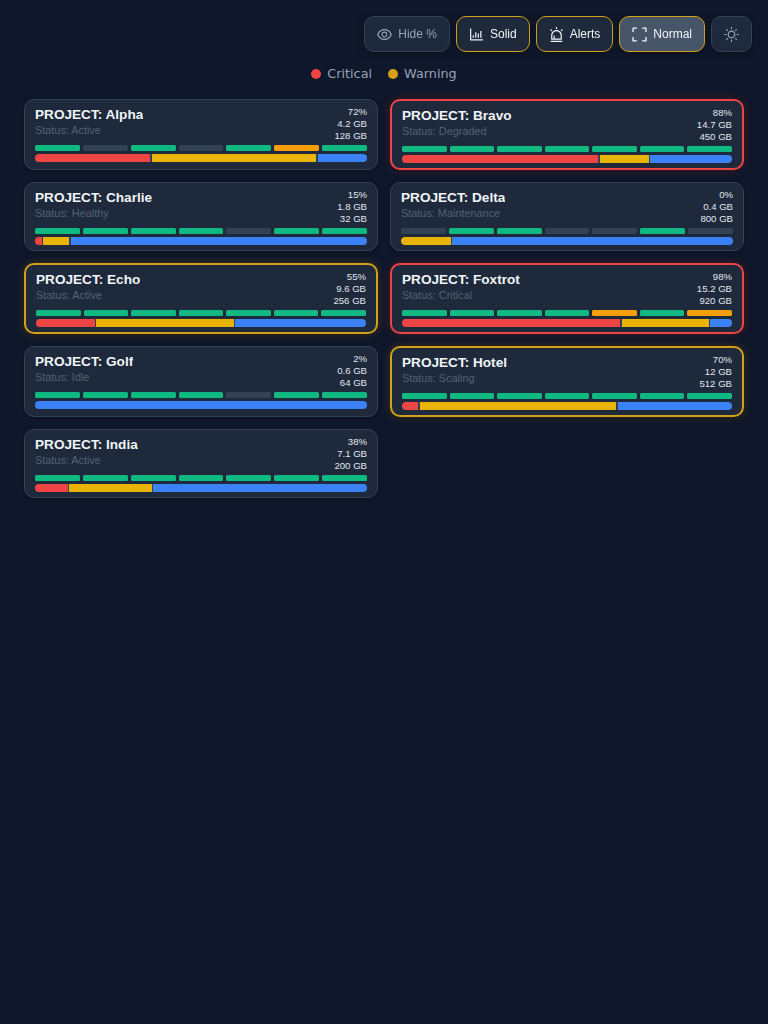
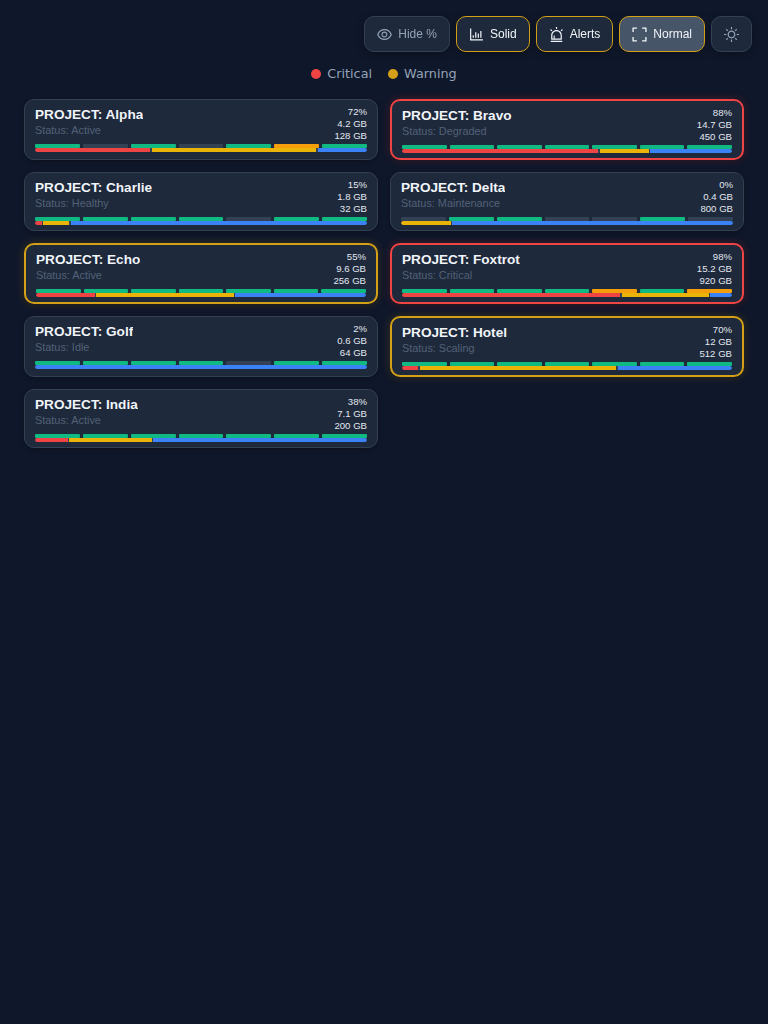
Compact cards: thinner gauges/bars and remove gap between them
- Gauge bars 6px → 4px, segmented bar 8px → 4px
- Card gap 3px → 2px, negative margin to close the gap between
  gauge row and segmented bar
- Update screenshots

https://claude.ai/code/session_018uFt2K4uPZLk9hC1RMM5Av

Changed region(s): [[0.0312, 0.125, 0.9688, 0.5]]

diff --git a/src/components/StatusCard.css b/src/components/StatusCard.css
@@ -310,7 +310,7 @@
 /* ── Compact mode ── */
 .status-card-compact {
   padding: 6px 10px 5px;
-  gap: 3px;
+  gap: 2px;
   border-radius: 10px;
 }
 
@@ -345,8 +345,8 @@
 .gauge-compact-bar {
   flex: 1;
   min-width: 0;
-  height: 6px;
-  border-radius: 1.5px;
+  height: 4px;
+  border-radius: 1px;
   transition: background 0.2s;
 }
 
@@ -378,14 +378,19 @@
 
 /* Compact bottom bar */
 .card-bottom-compact .segmented-bar {
-  height: 8px;
-  border-radius: 3px;
+  height: 4px;
+  border-radius: 2px;
 }
 
-/* Compact middle section — tighter gap, no wasted vertical space */
+/* Compact middle + bottom — no gap between gauge bars and segmented bar */
 .status-card-compact .card-middle {
   gap: 6px;
   align-items: center;
+  margin-bottom: -2px;
+}
+
+.status-card-compact .card-bottom {
+  margin-top: 0;
 }
 
 .card-bottom-compact .segment-label {
